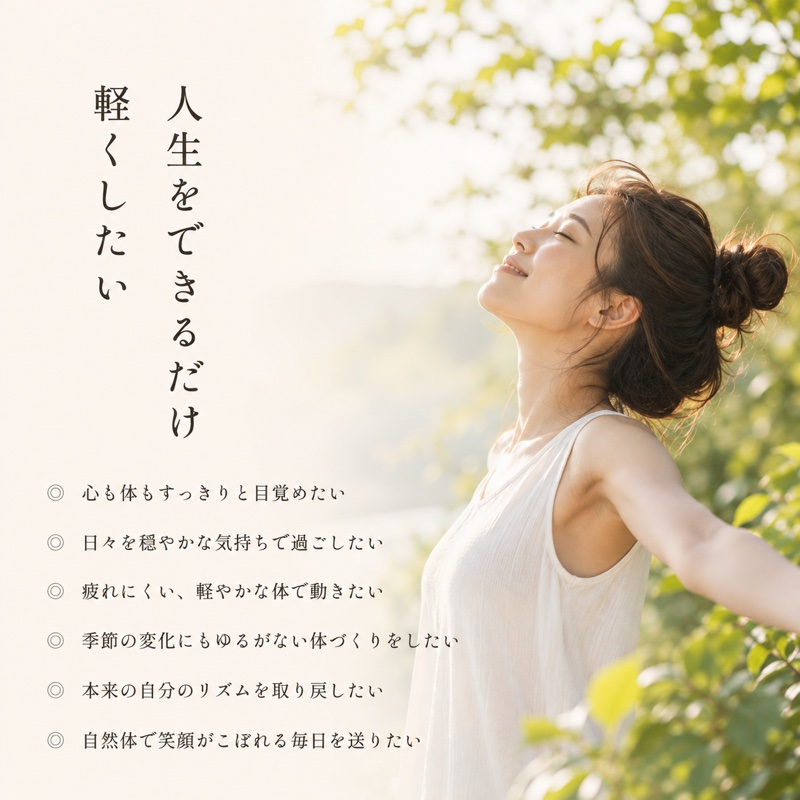
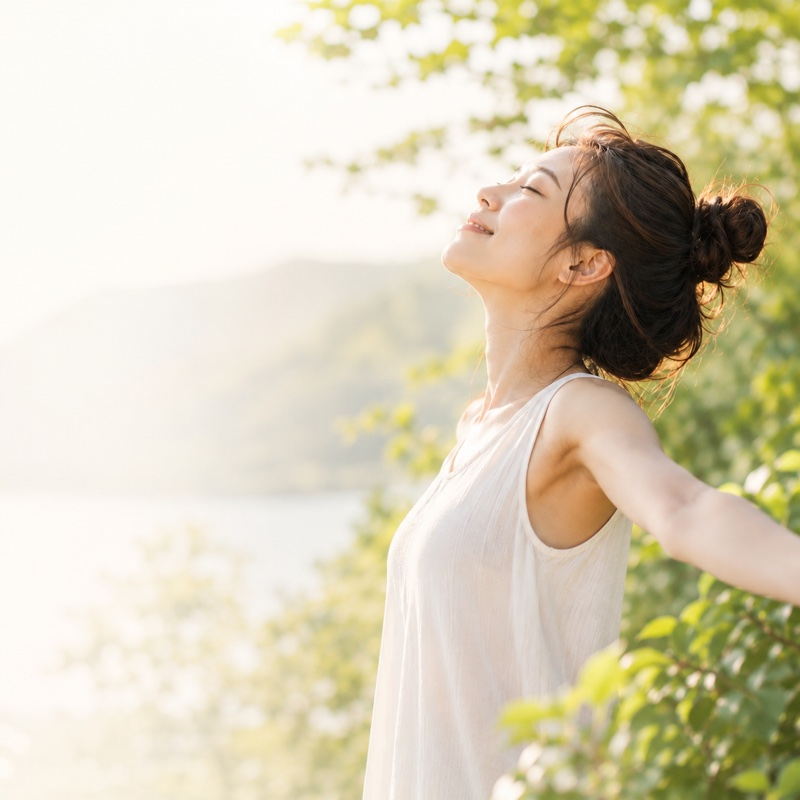
画像の見切れ修正・追加、コンセプトの未使用枠を削除
- persona写真をテキスト焼き込みなしのクリーンな写真に差し替え
  （wish.jpg / worry.jpg）
- 「外見と内面は、ひとつの円を描く」のイラストが左右で見切れていたのを
  object-fit: contain に変更し、全体が収まるよう調整
  （feature__img--illustration）
- ハーブ蒸しの魅力：「芯から温める」「めぐりを整える」に実写真を追加
  （kodawari/shin.jpg・megumi.jpg）
- コンセプトページの未使用の画像プレースホルダー2枠を削除

diff --git a/app/(site)/about/page.tsx b/app/(site)/about/page.tsx
@@ -2,9 +2,9 @@ import Link from "next/link";
 import { Ph, Headline, CtaBand, Footer } from "@/components/ui";
 
 export const POINTS = [
-  { t: "芯から温める", b: "11種類のハーブの蒸気を下半身から直接あてることで、体の深部までじんわりと温めます。" },
-  { t: "めぐりを整える", b: "温熱でめぐりをサポート。冷えやむくみ、女性特有の揺らぎが気になる方の毎日のケアに。" },
-  { t: "厳選したハーブ", b: "リラックス・すっきり・うるおいなど、その日の気分とお悩みに合わせてブレンド。", img: "/kodawari/herbs.jpg" },
+  { t: "芯から温める", b: "11種類のハーブの蒸気を下半身から直接あてることで、体の深部までじんわりと温めます。", img: "/kodawari/shin.jpg" },
+  { t: "めぐりを整える", b: "温熱でめぐりをサポート。冷えやむくみ、女性特有の揺らぎが気になる方の毎日のケアに。", img: "/kodawari/megumi.jpg" },
+  { t: "厳選したハーブ", b: "リラックス・すっきり・うるおいなど、その日の気分とお悩みに合わせてブレンド。", img: "/kodawari/herbs.jpg", fit: "contain" as const },
 ];
 
 export const HERB_TYPES = [
@@ -110,7 +110,7 @@ export default function About() {
       <div className="container">
         {POINTS.map((p, i) => {
           const img = p.img ? (
-            <div className={`feature__img ${p.img ? "tile--herbs" : ""}`}><img src={p.img} alt={p.t} /></div>
+            <div className={`feature__img ${p.fit === "contain" ? "tile--herbs" : ""}`}><img src={p.img} alt={p.t} /></div>
           ) : (
             <div className="feature__img"><Ph label={p.t} /></div>
           );

diff --git a/components/MobileLanding.tsx b/components/MobileLanding.tsx
@@ -113,7 +113,7 @@ export default function MobileLanding() {
         </div>
         <div className="spacer-sm" />
         <div className="feature">
-          <div className="feature__img"><img src="/kodawari/yomogi-mushi.jpg" alt="よもぎ蒸し 冷え・むくみ・美肌・ストレス・子宮ケア・妊活。体の中からあたためる。" /></div>
+          <div className="feature__img feature__img--illustration"><img src="/kodawari/yomogi-mushi.jpg" alt="よもぎ蒸し 冷え・むくみ・美肌・ストレス・子宮ケア・妊活。体の中からあたためる。" /></div>
           <div>
             <h3 className="feature__title">外見と内面は、ひとつの円を描く</h3>
             <p className="feature__body">
@@ -157,7 +157,7 @@ export default function MobileLanding() {
         <div className="container">
           {POINTS.map((p, i) => {
             const img = p.img ? (
-              <div className="feature__img tile--herbs"><img src={p.img} alt={p.t} /></div>
+              <div className={`feature__img ${p.fit === "contain" ? "tile--herbs" : ""}`}><img src={p.img} alt={p.t} /></div>
             ) : (
               <div className="feature__img"><Ph label={p.t} /></div>
             );

diff --git a/app/(site)/concept/page.tsx b/app/(site)/concept/page.tsx
@@ -1,5 +1,5 @@
 import Link from "next/link";
-import { Ph, Headline, CtaBand, Footer } from "@/components/ui";
+import { Headline, CtaBand, Footer } from "@/components/ui";
 import { SITE } from "@/site.config";
 
 export default function Concept() {
@@ -41,12 +41,6 @@ export default function Concept() {
           <br />
           {SITE.brand}は、美容師としての使命の進化からはじまりました。
         </p>
-      </div>
-
-      <div className="spacer" />
-      <div className="grid-2">
-        <div className="tile"><Ph label="美容・外見 — 髪を整える" /></div>
-        <div className="tile"><Ph label="よもぎ蒸し・内面 — 体を温める" /></div>
       </div>
 
       <Headline en="our words" jp="裏表のない、本当の言葉。" mini />

diff --git a/app/(site)/first-time/page.tsx b/app/(site)/first-time/page.tsx
@@ -119,7 +119,7 @@ export default function FirstTime() {
       </div>
       <div className="spacer-sm" />
       <div className="feature">
-        <div className="feature__img"><img src="/kodawari/yomogi-mushi.jpg" alt="よもぎ蒸し 冷え・むくみ・美肌・ストレス・子宮ケア・妊活。体の中からあたためる。" /></div>
+        <div className="feature__img feature__img--illustration"><img src="/kodawari/yomogi-mushi.jpg" alt="よもぎ蒸し 冷え・むくみ・美肌・ストレス・子宮ケア・妊活。体の中からあたためる。" /></div>
         <div>
           <h3 className="feature__title">外見と内面は、ひとつの円を描く</h3>
           <p className="feature__body">

diff --git a/app/globals.css b/app/globals.css
@@ -271,6 +271,10 @@ img { max-width: 100%; display: block; }
 .feature__body { font-size: 13px; line-height: 2.3; color: var(--ink-soft); }
 .feature.reverse .feature__img { order: 2; }
 
+/* 全体を見せたいイラスト等：切り抜かず縮小して収める */
+.feature__img--illustration { background: #f8f2e3; }
+.feature__img--illustration img { object-fit: contain; }
+
 /* gallery grid */
 .grid-3 {
   display: grid;
